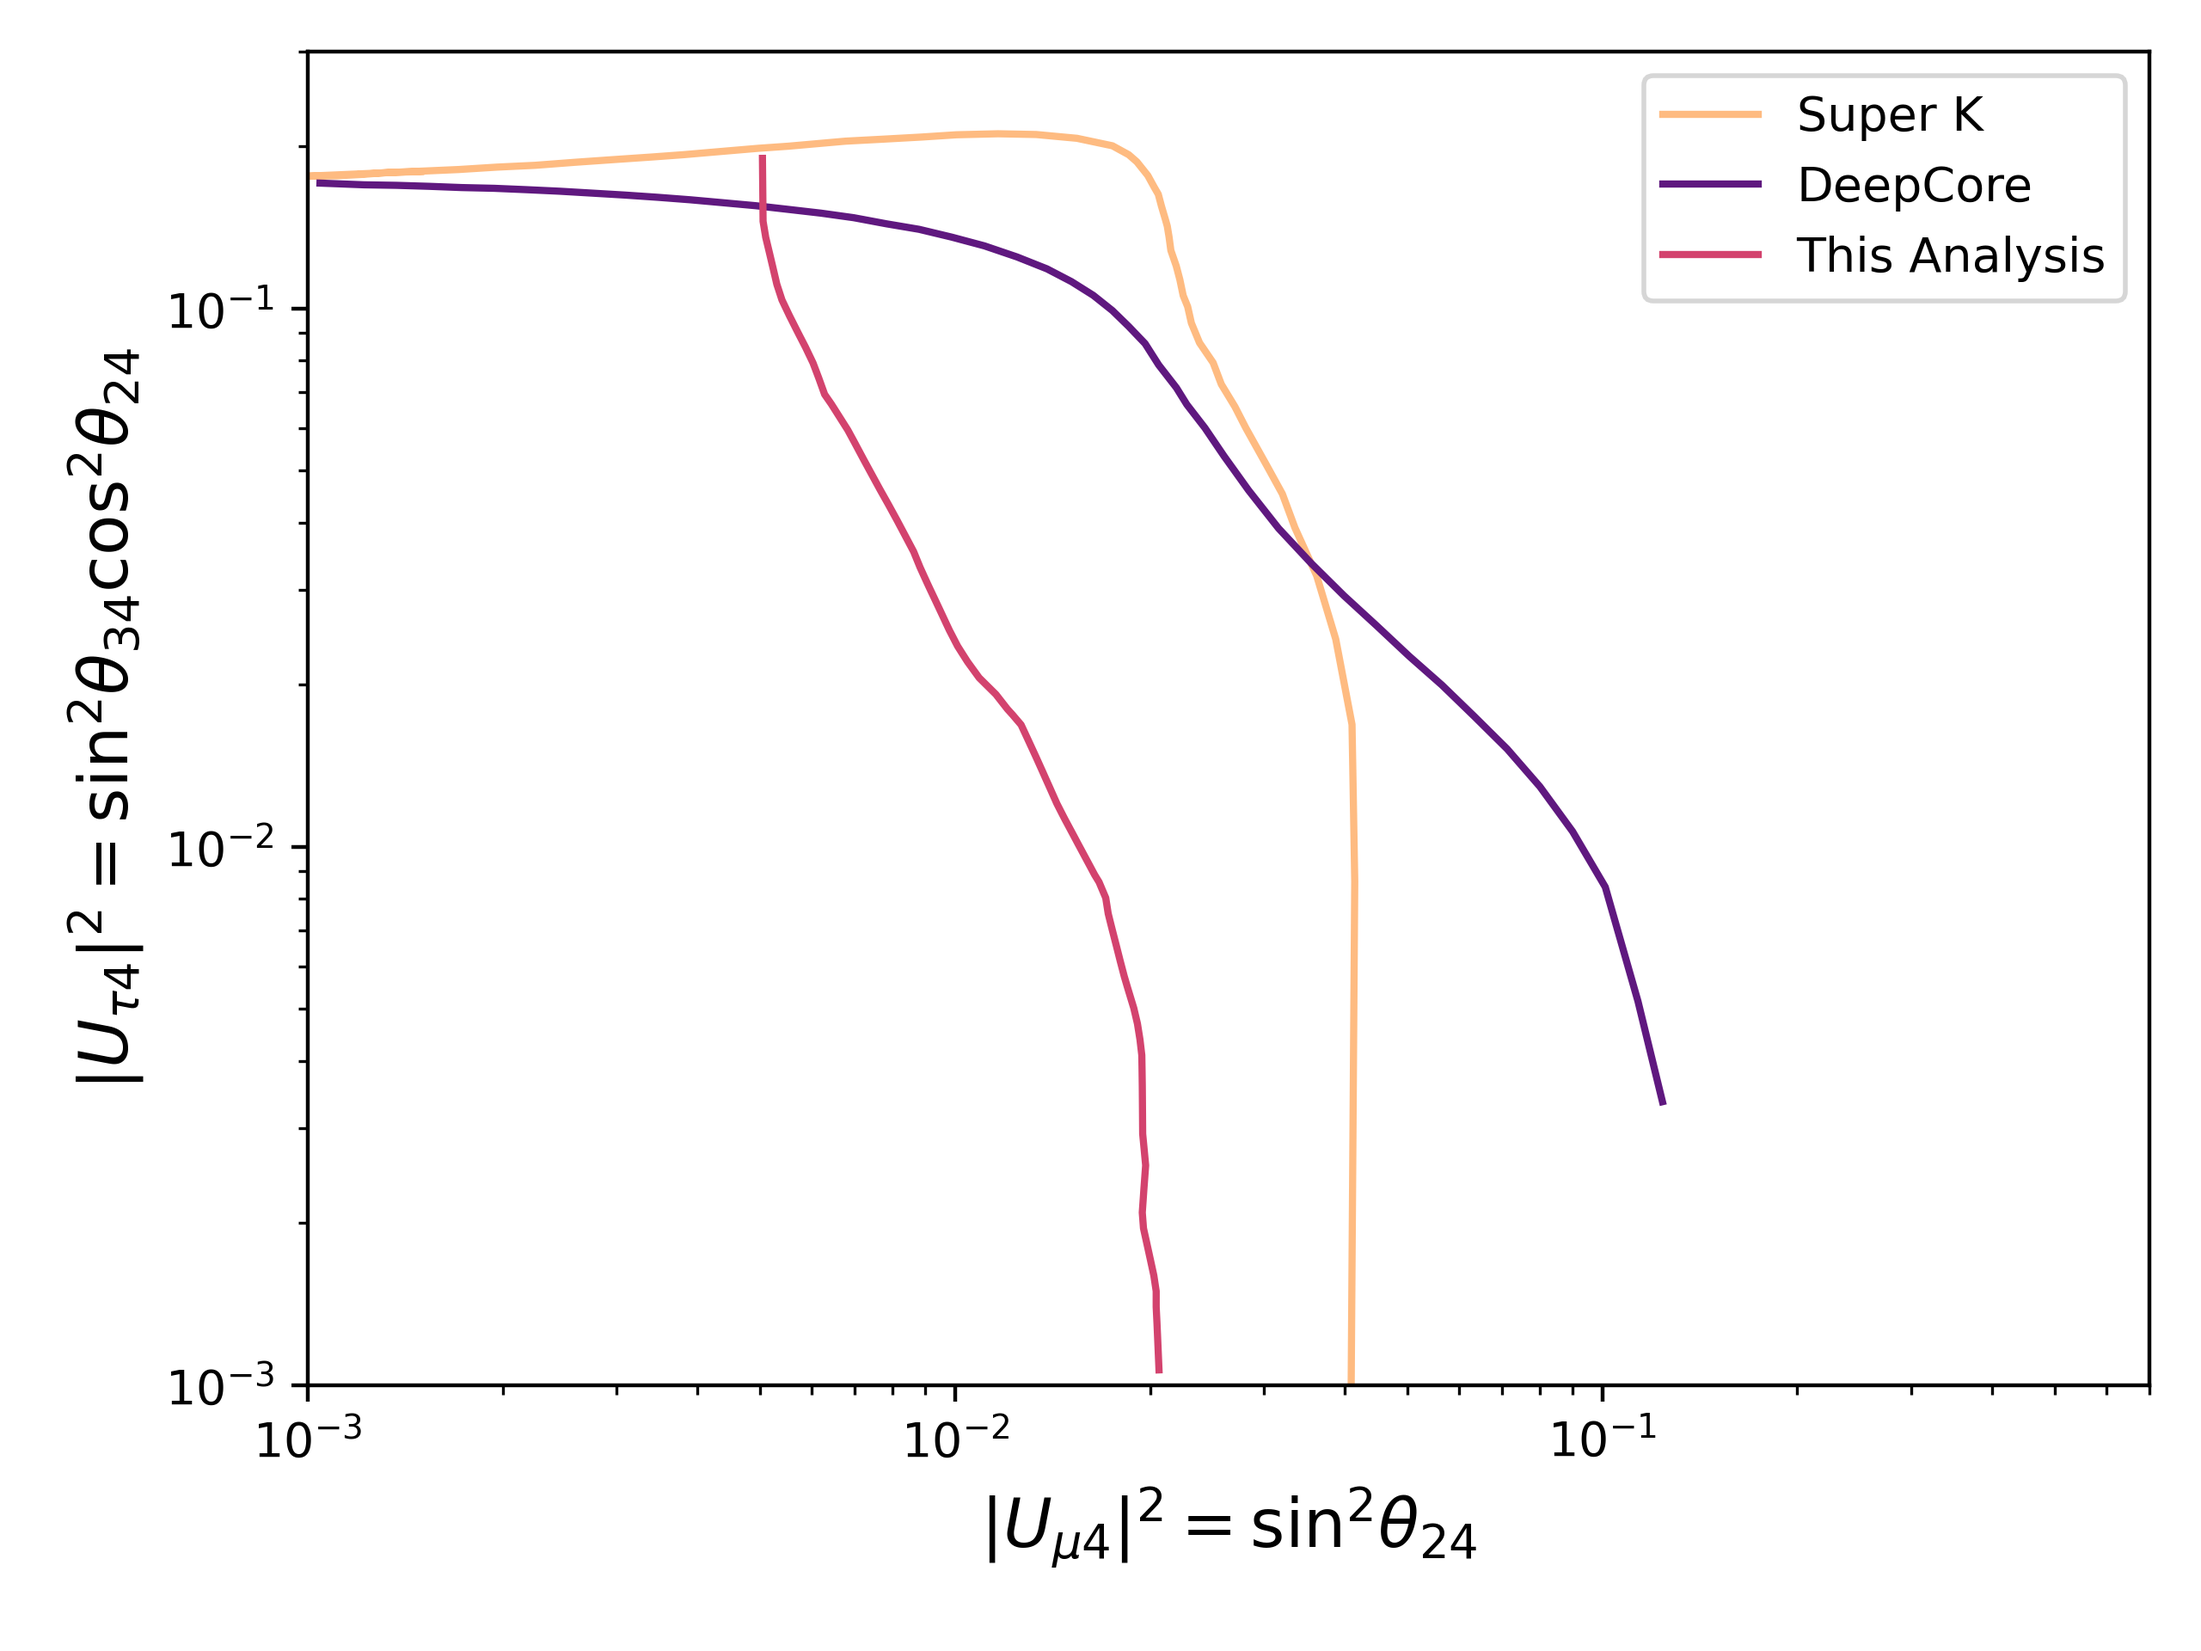
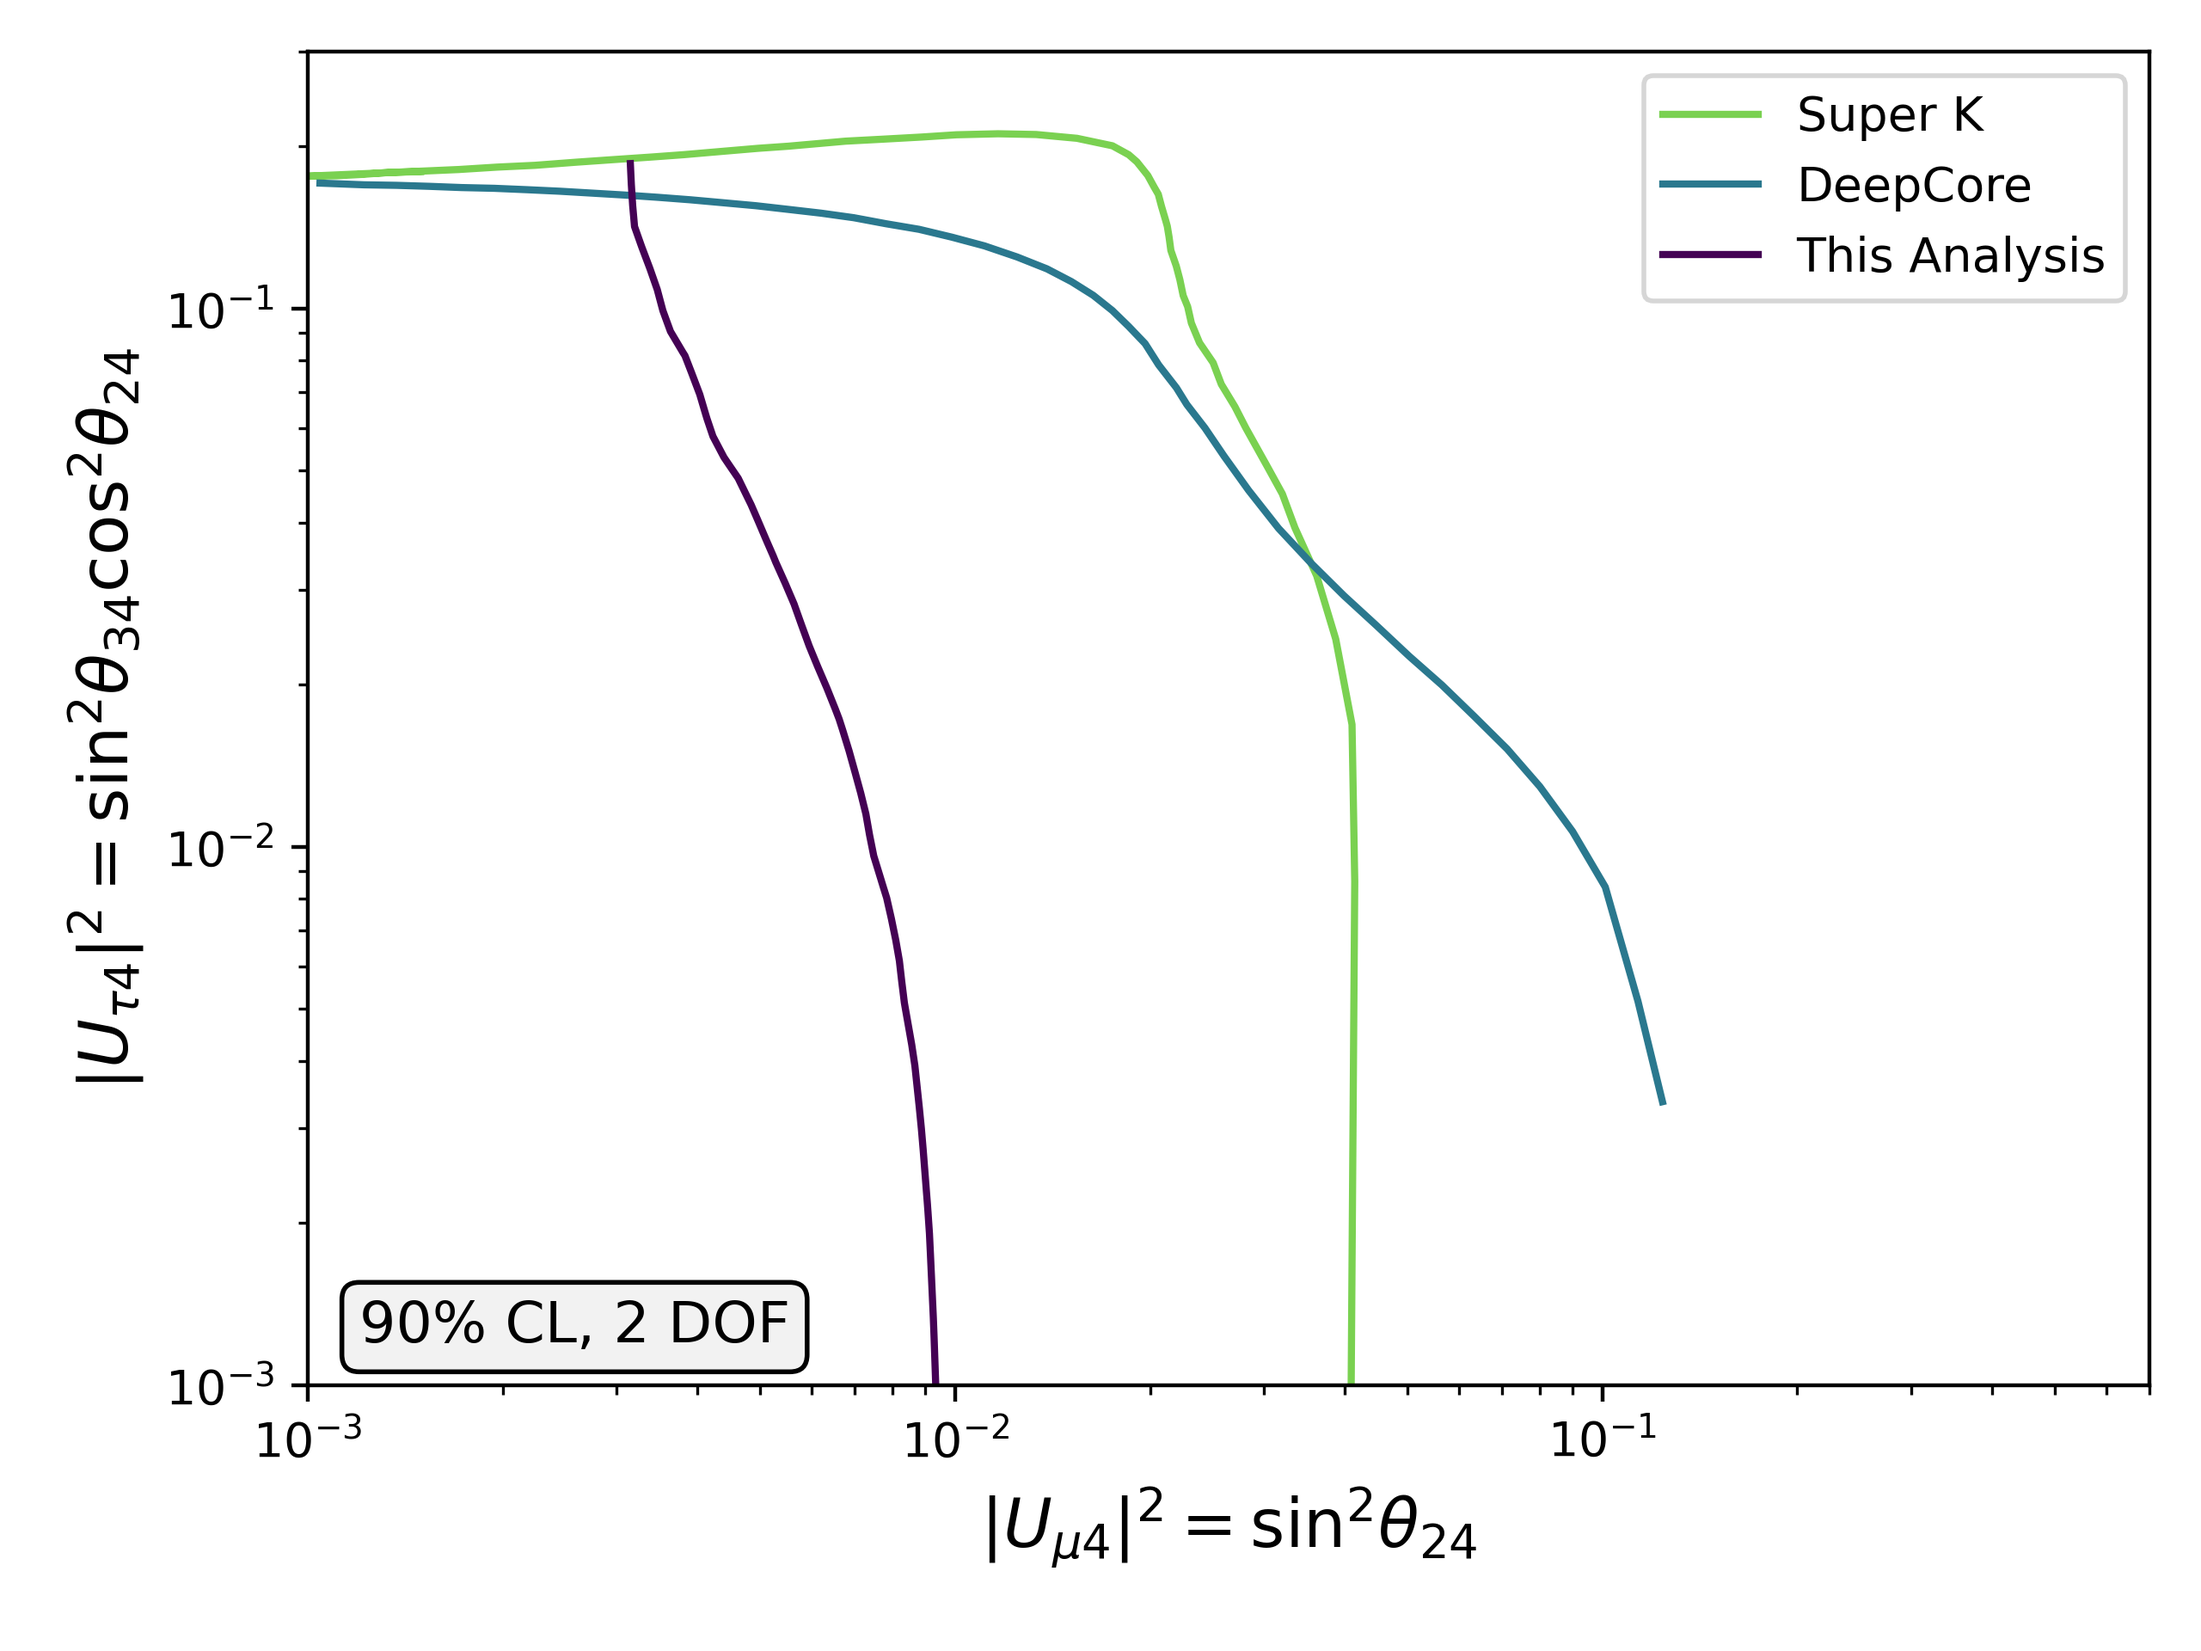
updated analysis plots

diff --git a/final_analysis.tex b/final_analysis.tex
@@ -167,40 +167,36 @@ Using the new nuisance parameter implementations and Daemonflux gradients, we ev
 The resulting sensitivities are shown in Figure~\ref{fig:comparison} (right) with the previous sensitivities overlain. 
 As mentioned in Section~\ref{sec:daemon_sense}, the observed sensitivities using DaemonFlux are worse than the older 8-year sensitivities. 
 
+As a means of verifying suspicions that the charge-ratio is responsible for the hit to the expected sensitivity. I now will write about the check where I made the charge ratio smaller 
+
 \begin{figure}
     \centering
-    \includegraphics[width=0.45\linewidth]{figures/2d_compare_llh.png}%
-    \includegraphics[width=0.45\linewidth]{figures/no_bubbles.png}
-    \caption{The 90\% CL sensitivity contours for two degrees of freedom, using only the track sample, as determined for this analysis (orange) and the original 8-year tracks sample (purple).}\label{fig:comparison}
+    \includegraphics[width=0.6\linewidth]{figures/track_asimov_oldairs_Realization_Asimov_sterile_0_cl0.9_dof2.png}
+    \caption{The 90\% CL sensitivity contours for two degrees of freedom, using only the track sample, as determined for this analysis (yellow) and the original 8-year tracks sample (green).}\label{fig:comparison}
 \end{figure}
 
 \subsection{Inject-Recover Systematic Tests}
 
-Pseudo-experimental results, or `realizations,' are first calculated by perturbing each nuisance parameter some amount, individually, and getting the expected event rates without additional statistical variation applied. 
-This is done for each nuisance parameter allowed to float in the fit, for amounts across the whole range given by the parameters' priors. 
+Pseudo-experimental results, or `realizations,' are first calculated by perturbing all nuisance parameters within their priors, simultaneously, and getting the expected event rates without additional statistical variation applied. 
 Fits are then carried out to each of these realizations.
 
-The results are tabulated below in two figures: in Figure~\ref{fig:ir_nopriorpert} the results are shown where the prior on the nuisance parameter is left at its original value; in Figure~\ref{fig:ir_priorpert} the prior is changed to the value of the injected nuisance parameter. 
-For the most part, in Figure~\ref{fig:ir_priorpert}, the exact value injected is recovered by the fitter. 
-In a few cases, notably for the \texttt{aeff\_scale} and \texttt{astro\_norm\_rotated} parameters, there are misfits when the injected parameter pulls near the edge of the range of the parameter.
-Given this only happens for large deviation, it is not of concern. 
-Another feature of note occurs for
-The parameters show a systematic deviation that increases as the injected parameter is further from the nominal value. 
-The parameter most strongly exhibiting this effect is \texttt{vhe3\_piplus\_rot}, where at high, positive, perturbation the fit value is systematically lower; the converse is true for a negative perturbation. 
-This effect appears consistent with a minor bias that can be introduced by the effective likelihood function\footnote{See the discussion in Section~\ref{sect:llh_metric}} in cases of large MC statistical error.  
+The results are tabulated below in two figures: in Figure~\ref{fig:ir_nopriorpert} the results are shown where the priors on the nuisance parameters are left at their original value, and in Figure~\ref{fig:ir_priorpert} the priors are changed to the value of the injected nuisance parameter. 
+In Figure~\ref{fig:ir_priorpert}, the injected values are all recovered. 
 
-In Figure~\ref{fig:ir_nopriorpert}, the flatter a parameter is then the more tightly-constrained its prior is. 
+In Figure~\ref{fig:ir_nopriorpert}, the flatter the trend is then the more tightly-constrained its prior is compared to the shape effects caused by the nuisance parameter itself. 
+Conversely, parameters which recover injected
+The cross section uncertainty and Barr-Z parameters are observed to have a minor effect on the fitting. 
 
 \begin{figure}
     \centering 
-    \includegraphics[width=0.7\linewidth]{figures/inject_recover_syst.png}
-    \caption{Fit results after injecting various perturbed values for each nuisance parameter and running the fitter. }\label{fig:ir_nopriorpert}
+    \includegraphics[width=0.7\linewidth]{figures/syst_ir_shuffle_nofix.png}
+    \caption{Fit results after injecting various perturbed values for each nuisance parameter and running the fitter. A shaded gray region demonstrates the $1\sigma$ prior width on the nuisance parameter's prior.}\label{fig:ir_nopriorpert}
 \end{figure}
 
 
 \begin{figure}
     \centering 
-    \includegraphics[width=0.7\linewidth]{figures/inject_recover_syst_prior.png}
+    \includegraphics[width=0.7\linewidth]{figures/update_inject_recover_syst_prior.png}
     \caption{Fit results after injecting various perturbed values for each nuisance parameter and running the fitter. Priors are adjusted in each fit according to the injected values.}\label{fig:ir_priorpert}
 \end{figure}
 
@@ -218,16 +214,16 @@ In addition to this, the newer flux model predicts a higher charge ratio, result
 
 \begin{figure}
     \centering
-    \includegraphics[width=0.7\linewidth]{figures/true_sensitivity_Realization_Asimov_sterile_0_cl0.9_dof3.png}
+    \includegraphics[width=0.7\linewidth]{figures/joint_asimov_oldairs_Realization_Asimov_sterile_0_cl0.95_dof3}
     \caption{The 90\% confidence level sensitivity contours with three degrees of freedom for this analysis.}\label{fig:asimov_sense}
 \end{figure}
 
 \begin{figure}
     \centering
+    \includegraphics[width=0.45\linewidth]{figures/pheno_joint_asimov_oldairs_Realization_Asimov_sterile_0_cl0.9_dof3.png}%
     \includegraphics[width=0.45\linewidth]{figures/comparison.png}
     \caption{The 90\% confidence level sensitivity contours for this analysis with two degrees of freedom at $\Delta m_{41}^{2}=$ 1.0 eV$^{2}$ (left), and  4.5 eV$^{2}$ (right), are shown. Senstivities from DeepCore~\cite{Aartsen_2017_dc} and Super-K~\cite{PhysRevD.91.052019} at 1.0eV$^{2}$ are also shown.}\label{fig:asimov_compare}
 \end{figure}
-
 
 
 \subsection{Systematic Impact Tests}
@@ -259,6 +255,8 @@ Additionally, three more points were chosen off-grid at various points.
 Of those three, one was selected as the recovered best-fit point from the 8-year track analysis. 
 Each of these points are listed in Table~\ref{table:injected_signals}.
 Then, we ran a full fit-scan on an Asimov realization generated for each of these simulated signals. 
+Injected values are recovered in all cases where a signal is injected at a grid-point. 
+For the cases where a signal is injected near a grid point, the best fit is sufficiently close.
 
 \begin{table}
     \centering
@@ -279,15 +277,41 @@ Then, we ran a full fit-scan on an Asimov realization generated for each of thes
     \caption{Sterile neutrino mixing angles at which Asimov realizations were generated. Entries marked with $\dag$ were generated off of the grid used for fit scans.}\label{table:injected_signals}
 \end{table}
 
+\begin{figure}
+    \centering
+    \includegraphics[width=0.45\linewidth]{figures/inject_recover_RealIR_0_sterile_1_cl0.9_dof3.png}%
+    \includegraphics[width=0.45\linewidth]{figures/inject_recover_RealIR_1_sterile_1_cl0.9_dof3.png}
+    \caption{To be added later}
+\end{figure}
 
-\textit{Discussion of the constraints}
+\begin{figure}
+    \centering
+    \includegraphics[width=0.45\linewidth]{figures/inject_recover_RealIR_2_sterile_4_cl0.9_dof3.png}%
+    \includegraphics[width=0.45\linewidth]{figures/inject_recover_RealIR_3_sterile_4_cl0.9_dof3.png}
+    \caption{To be added later}
+\end{figure}
+
+
+\begin{figure}
+    \centering
+    \includegraphics[width=0.45\linewidth]{figures/inject_recover_RealIR_5_sterile_1_cl0.9_dof3.png}%
+    \includegraphics[width=0.45\linewidth]{figures/inject_recover_RealIR_6_sterile_1_cl0.9_dof3.png}
+    \caption{To be added later}
+\end{figure}
+
+\begin{figure}
+    \centering
+    \includegraphics[width=0.45\linewidth]{figures/inject_recover_RealIR_8_sterile_7_cl0.9_dof3.png}%
+    \includegraphics[width=0.45\linewidth]{figures/inject_recover_RealIR_9_sterile_4_cl0.9_dof3.png}
+    \caption{To be added later}
+\end{figure}
 
 \section{Unblinding Procedure}
 
 \begin{figure}
     \centering
-    \includegraphics[width=0.7\linewidth]{figures/Proposed_unblinding_plan.jpg.png}
-    \caption{The unblinding procedure used in this analysis.}\label{fig:unblind}
+    \includegraphics[width=0.7\linewidth]{figures/unblinding.png}
+    \caption{The unblinding procedure used in this analysis and expected probabilities of satisfying the stop condition.}\label{fig:unblind}
 \end{figure}
 
 The unblinding procedure used in this analysis is shown in Figure~\ref{fig:unblind}. 
